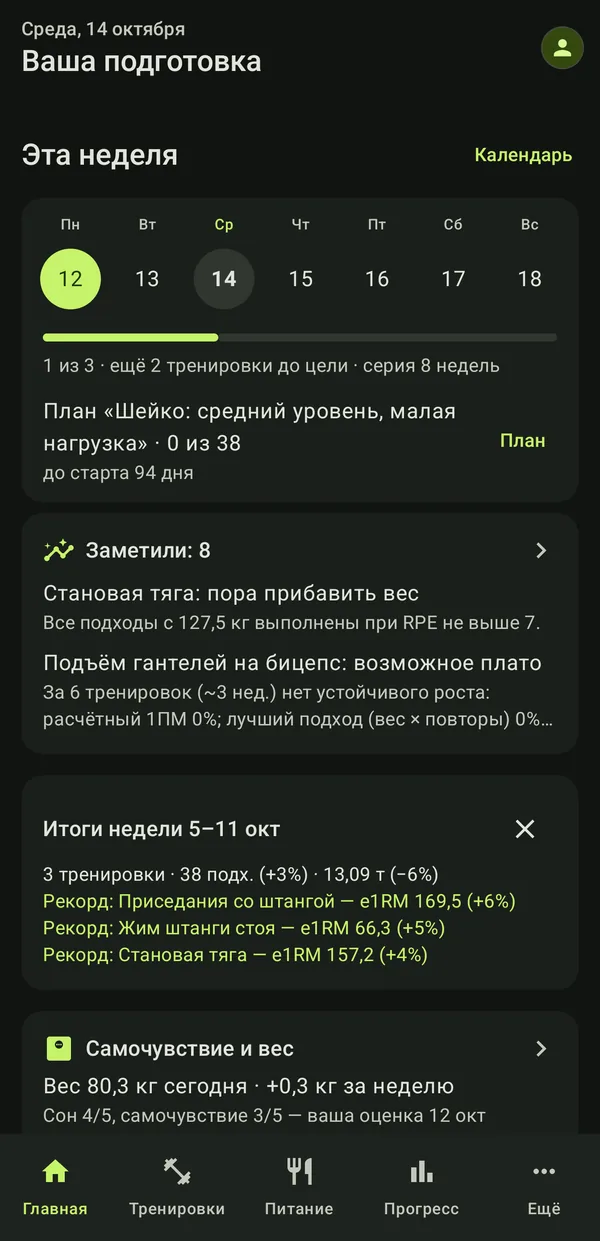
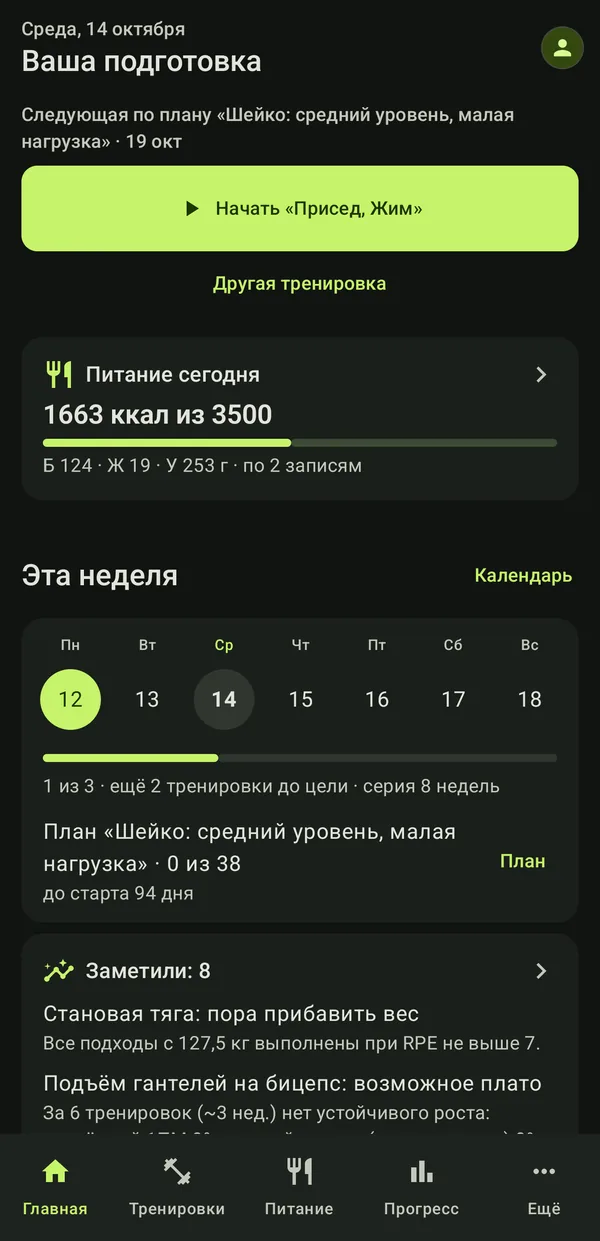
Скриншоты в светлой теме и переключатель темы скриншотов

Changed region(s): [[0.03, 0.4287, 0.96, 0.9186], [0.03, 0.0919, 0.99, 0.3981]]

diff --git a/index.html b/index.html
@@ -9,7 +9,7 @@
   <link rel="preconnect" href="https://fonts.googleapis.com">
   <link rel="preconnect" href="https://fonts.gstatic.com" crossorigin>
   <link href="https://fonts.googleapis.com/css2?family=Manrope:wght@400;500;600;700;800&display=swap" rel="stylesheet">
-  <link rel="stylesheet" href="styles.css?v=3">
+  <link rel="stylesheet" href="styles.css?v=4">
   <script>
     // Тема до отрисовки, чтобы страница не мигала: сохранённый выбор важнее системной.
     try { const t = localStorage.getItem("theme"); if (t === "light" || t === "dark") document.documentElement.dataset.theme = t; } catch (e) {}
@@ -186,25 +186,35 @@
         <h2 id="screens-title" class="reveal">Вот так это выглядит, пока ты не уронил телефон под штангу</h2>
         <div class="shots" tabindex="0" aria-label="Снимки экранов, прокручиваются вбок">
           <figure class="shot reveal">
-            <img src="screens/home.webp?v=2" width="600" height="1241" loading="lazy" decoding="async" alt="Экран «Главная»: неделя, план, что заметили и итоги недели">
+            <img class="shot__img shot__img--dark" src="screens/home.webp?v=3" width="600" height="1241" loading="lazy" decoding="async" alt="Экран «Главная»: неделя, план, что заметили и итоги недели">
+            <img class="shot__img shot__img--light" src="screens/home-light.webp?v=3" width="600" height="1241" loading="lazy" decoding="async" alt="Экран «Главная»: неделя, план, что заметили и итоги недели">
             <figcaption>Главная<span>Неделя, рекорды и что приложение про тебя заметило</span></figcaption>
           </figure>
           <figure class="shot reveal">
-            <img src="screens/workout.webp?v=2" width="600" height="1241" loading="lazy" decoding="async" alt="Экран «Тренировка»: подходы, блины на сторону, рекорды и таймер отдыха">
+            <img class="shot__img shot__img--dark" src="screens/workout.webp?v=3" width="600" height="1241" loading="lazy" decoding="async" alt="Экран «Тренировка»: подходы, блины на сторону, рекорды и таймер отдыха">
+            <img class="shot__img shot__img--light" src="screens/workout-light.webp?v=3" width="600" height="1241" loading="lazy" decoding="async" alt="Экран «Тренировка»: подходы, блины на сторону, рекорды и таймер отдыха">
             <figcaption>Тренировка<span>Подходы, блины и таймер, который не даст залипнуть в рилсы</span></figcaption>
           </figure>
           <figure class="shot reveal">
-            <img src="screens/plan.webp?v=2" width="600" height="1241" loading="lazy" decoding="async" alt="Экран «Подготовка к старту»: план по шейко к дате, прогноз разряда, весовая категория">
+            <img class="shot__img shot__img--dark" src="screens/plan.webp?v=3" width="600" height="1241" loading="lazy" decoding="async" alt="Экран «Подготовка к старту»: план по шейко к дате, прогноз разряда, весовая категория">
+            <img class="shot__img shot__img--light" src="screens/plan-light.webp?v=3" width="600" height="1241" loading="lazy" decoding="async" alt="Экран «Подготовка к старту»: план по шейко к дате, прогноз разряда, весовая категория">
             <figcaption>Подготовка к старту<span>Шейко к дате старта и сколько осталось до разряда</span></figcaption>
           </figure>
           <figure class="shot reveal">
-            <img src="screens/food.webp?v=2" width="600" height="1241" loading="lazy" decoding="async" alt="Экран «Питание»: калории на сегодня, рацион и тренд веса">
+            <img class="shot__img shot__img--dark" src="screens/food.webp?v=3" width="600" height="1241" loading="lazy" decoding="async" alt="Экран «Питание»: калории на сегодня, рацион и тренд веса">
+            <img class="shot__img shot__img--light" src="screens/food-light.webp?v=3" width="600" height="1241" loading="lazy" decoding="async" alt="Экран «Питание»: калории на сегодня, рацион и тренд веса">
             <figcaption>Питание<span>Сколько съел и сколько ещё надо в себя впихнуть</span></figcaption>
           </figure>
           <figure class="shot reveal">
-            <img src="screens/stats.webp?v=2" width="600" height="1241" loading="lazy" decoding="async" alt="Экран «Прогресс»: тренировки по неделям, тоннаж и нагрузка по мышцам">
+            <img class="shot__img shot__img--dark" src="screens/stats.webp?v=3" width="600" height="1241" loading="lazy" decoding="async" alt="Экран «Прогресс»: тренировки по неделям, тоннаж и нагрузка по мышцам">
+            <img class="shot__img shot__img--light" src="screens/stats-light.webp?v=3" width="600" height="1241" loading="lazy" decoding="async" alt="Экран «Прогресс»: тренировки по неделям, тоннаж и нагрузка по мышцам">
             <figcaption>Прогресс<span>Графики, на которых видно, что ноги ты опять пропустил</span></figcaption>
           </figure>
+        </div>
+        <div class="shots__switch" role="group" aria-label="Тема на скриншотах">
+          <span>Скрины:</span>
+          <button type="button" data-shots-theme="dark" aria-pressed="true">Тёмная</button>
+          <button type="button" data-shots-theme="light" aria-pressed="false">Светлая</button>
         </div>
         <p class="shots__note reveal">Данные на скринах выдуманные: восемь недель идеальных тренировок — такие бывают только в демо.</p>
       </div>
@@ -457,6 +467,6 @@
     </div>
   </footer>
 
-  <script src="script.js?v=2" defer></script>
+  <script src="script.js?v=3" defer></script>
 </body>
 </html>

diff --git a/index-users.html b/index-users.html
@@ -9,7 +9,7 @@
   <link rel="preconnect" href="https://fonts.googleapis.com">
   <link rel="preconnect" href="https://fonts.gstatic.com" crossorigin>
   <link href="https://fonts.googleapis.com/css2?family=Manrope:wght@400;500;600;700;800&display=swap" rel="stylesheet">
-  <link rel="stylesheet" href="styles.css?v=3">
+  <link rel="stylesheet" href="styles.css?v=4">
   <script>
     // Тема до отрисовки, чтобы страница не мигала: сохранённый выбор важнее системной.
     try { const t = localStorage.getItem("theme"); if (t === "light" || t === "dark") document.documentElement.dataset.theme = t; } catch (e) {}
@@ -186,25 +186,35 @@
         <h2 id="screens-title" class="reveal">Настоящие экраны приложения</h2>
         <div class="shots" tabindex="0" aria-label="Снимки экранов, прокручиваются вбок">
           <figure class="shot reveal">
-            <img src="screens/home.webp?v=2" width="600" height="1241" loading="lazy" decoding="async" alt="Экран «Главная»: неделя, план, что заметили и итоги недели">
+            <img class="shot__img shot__img--dark" src="screens/home.webp?v=3" width="600" height="1241" loading="lazy" decoding="async" alt="Экран «Главная»: неделя, план, что заметили и итоги недели">
+            <img class="shot__img shot__img--light" src="screens/home-light.webp?v=3" width="600" height="1241" loading="lazy" decoding="async" alt="Экран «Главная»: неделя, план, что заметили и итоги недели">
             <figcaption>Главная<span>Неделя, план, что заметили и итоги недели</span></figcaption>
           </figure>
           <figure class="shot reveal">
-            <img src="screens/workout.webp?v=2" width="600" height="1241" loading="lazy" decoding="async" alt="Экран «Тренировка»: подходы, блины на сторону, рекорды и таймер отдыха">
+            <img class="shot__img shot__img--dark" src="screens/workout.webp?v=3" width="600" height="1241" loading="lazy" decoding="async" alt="Экран «Тренировка»: подходы, блины на сторону, рекорды и таймер отдыха">
+            <img class="shot__img shot__img--light" src="screens/workout-light.webp?v=3" width="600" height="1241" loading="lazy" decoding="async" alt="Экран «Тренировка»: подходы, блины на сторону, рекорды и таймер отдыха">
             <figcaption>Тренировка<span>Подходы, блины на сторону, рекорды и таймер отдыха</span></figcaption>
           </figure>
           <figure class="shot reveal">
-            <img src="screens/plan.webp?v=2" width="600" height="1241" loading="lazy" decoding="async" alt="Экран «Подготовка к старту»: план по шейко к дате, прогноз разряда, весовая категория">
+            <img class="shot__img shot__img--dark" src="screens/plan.webp?v=3" width="600" height="1241" loading="lazy" decoding="async" alt="Экран «Подготовка к старту»: план по шейко к дате, прогноз разряда, весовая категория">
+            <img class="shot__img shot__img--light" src="screens/plan-light.webp?v=3" width="600" height="1241" loading="lazy" decoding="async" alt="Экран «Подготовка к старту»: план по шейко к дате, прогноз разряда, весовая категория">
             <figcaption>Подготовка к старту<span>План по Шейко к дате, прогноз разряда, весовая категория</span></figcaption>
           </figure>
           <figure class="shot reveal">
-            <img src="screens/food.webp?v=2" width="600" height="1241" loading="lazy" decoding="async" alt="Экран «Питание»: калории на сегодня, рацион и тренд веса">
+            <img class="shot__img shot__img--dark" src="screens/food.webp?v=3" width="600" height="1241" loading="lazy" decoding="async" alt="Экран «Питание»: калории на сегодня, рацион и тренд веса">
+            <img class="shot__img shot__img--light" src="screens/food-light.webp?v=3" width="600" height="1241" loading="lazy" decoding="async" alt="Экран «Питание»: калории на сегодня, рацион и тренд веса">
             <figcaption>Питание<span>Калории на сегодня, рацион и тренд веса</span></figcaption>
           </figure>
           <figure class="shot reveal">
-            <img src="screens/stats.webp?v=2" width="600" height="1241" loading="lazy" decoding="async" alt="Экран «Прогресс»: тренировки по неделям, тоннаж и нагрузка по мышцам">
+            <img class="shot__img shot__img--dark" src="screens/stats.webp?v=3" width="600" height="1241" loading="lazy" decoding="async" alt="Экран «Прогресс»: тренировки по неделям, тоннаж и нагрузка по мышцам">
+            <img class="shot__img shot__img--light" src="screens/stats-light.webp?v=3" width="600" height="1241" loading="lazy" decoding="async" alt="Экран «Прогресс»: тренировки по неделям, тоннаж и нагрузка по мышцам">
             <figcaption>Прогресс<span>Тренировки по неделям, тоннаж и нагрузка по мышцам</span></figcaption>
           </figure>
+        </div>
+        <div class="shots__switch" role="group" aria-label="Тема на скриншотах">
+          <span>Тема на снимках:</span>
+          <button type="button" data-shots-theme="dark" aria-pressed="true">Тёмная</button>
+          <button type="button" data-shots-theme="light" aria-pressed="false">Светлая</button>
         </div>
         <p class="shots__note reveal">Снимки с демонстрационными данными: 8 недель тренировок, план к соревнованиям и цель по массе.</p>
       </div>
@@ -463,6 +473,6 @@
     </div>
   </footer>
 
-  <script src="script.js?v=2" defer></script>
+  <script src="script.js?v=3" defer></script>
 </body>
 </html>

diff --git a/styles.css b/styles.css
@@ -344,6 +344,24 @@ p { margin: 0 0 1em; }
 .shot figcaption { margin-top: 18px; font-weight: 700; }
 .shot figcaption span { display: block; color: var(--muted); font-weight: 400; font-size: .92rem; line-height: 1.45; }
 .shots__note { color: var(--muted); font-size: .9rem; margin: 0; }
+/* Тема снимков: по умолчанию — как у сайта; переключатель под снимками задаёт свою (data-shots). */
+.shot__img--light { display: none; }
+@media (prefers-color-scheme: light) {
+  :root:not([data-theme="dark"]) .shots:not([data-shots]) .shot__img--dark { display: none; }
+  :root:not([data-theme="dark"]) .shots:not([data-shots]) .shot__img--light { display: block; }
+}
+:root[data-theme="light"] .shots:not([data-shots]) .shot__img--dark { display: none; }
+:root[data-theme="light"] .shots:not([data-shots]) .shot__img--light { display: block; }
+.shots[data-shots="light"] .shot__img--dark { display: none; }
+.shots[data-shots="light"] .shot__img--light { display: block; }
+.shots__switch { display: flex; flex-wrap: wrap; align-items: center; gap: 6px; margin: 0 0 14px; }
+.shots__switch span { color: var(--muted); font-size: .9rem; margin-right: 4px; }
+.shots__switch button {
+  font: inherit; font-size: .85rem; font-weight: 600; cursor: pointer; min-height: 40px;
+  color: var(--muted); background: transparent; border: 1px solid var(--line);
+  border-radius: 999px; padding: .4em 1.1em;
+}
+.shots__switch button[aria-pressed="true"] { color: var(--on-primary); background: var(--primary); border-color: var(--primary); }
 @media (min-width: 1040px) {
   .shots { display: grid; grid-template-columns: repeat(5, 1fr); overflow: visible; }
 }

diff --git a/script.js b/script.js
@@ -22,7 +22,20 @@
   const themeMeta = document.querySelector('meta[name="theme-color"]');
   const currentTheme = () => root.dataset.theme || (systemLight.matches ? "light" : "dark");
 
+  // Тема снимков: пока переключатель не трогали — как у сайта (data-shots не задан).
+  const shots = document.querySelector(".shots");
+  const shotButtons = document.querySelectorAll("[data-shots-theme]");
+  function syncShots() {
+    const t = (shots && shots.dataset.shots) || currentTheme();
+    shotButtons.forEach((b) => b.setAttribute("aria-pressed", String(b.dataset.shotsTheme === t)));
+  }
+  shotButtons.forEach((b) => b.addEventListener("click", () => {
+    if (shots) shots.dataset.shots = b.dataset.shotsTheme;
+    syncShots();
+  }));
+
   function syncTheme() {
+    syncShots();
     const dark = currentTheme() === "dark";
     themeBtn.setAttribute("aria-pressed", String(dark));
     themeBtn.title = dark ? "Светлая тема" : "Тёмная тема";
